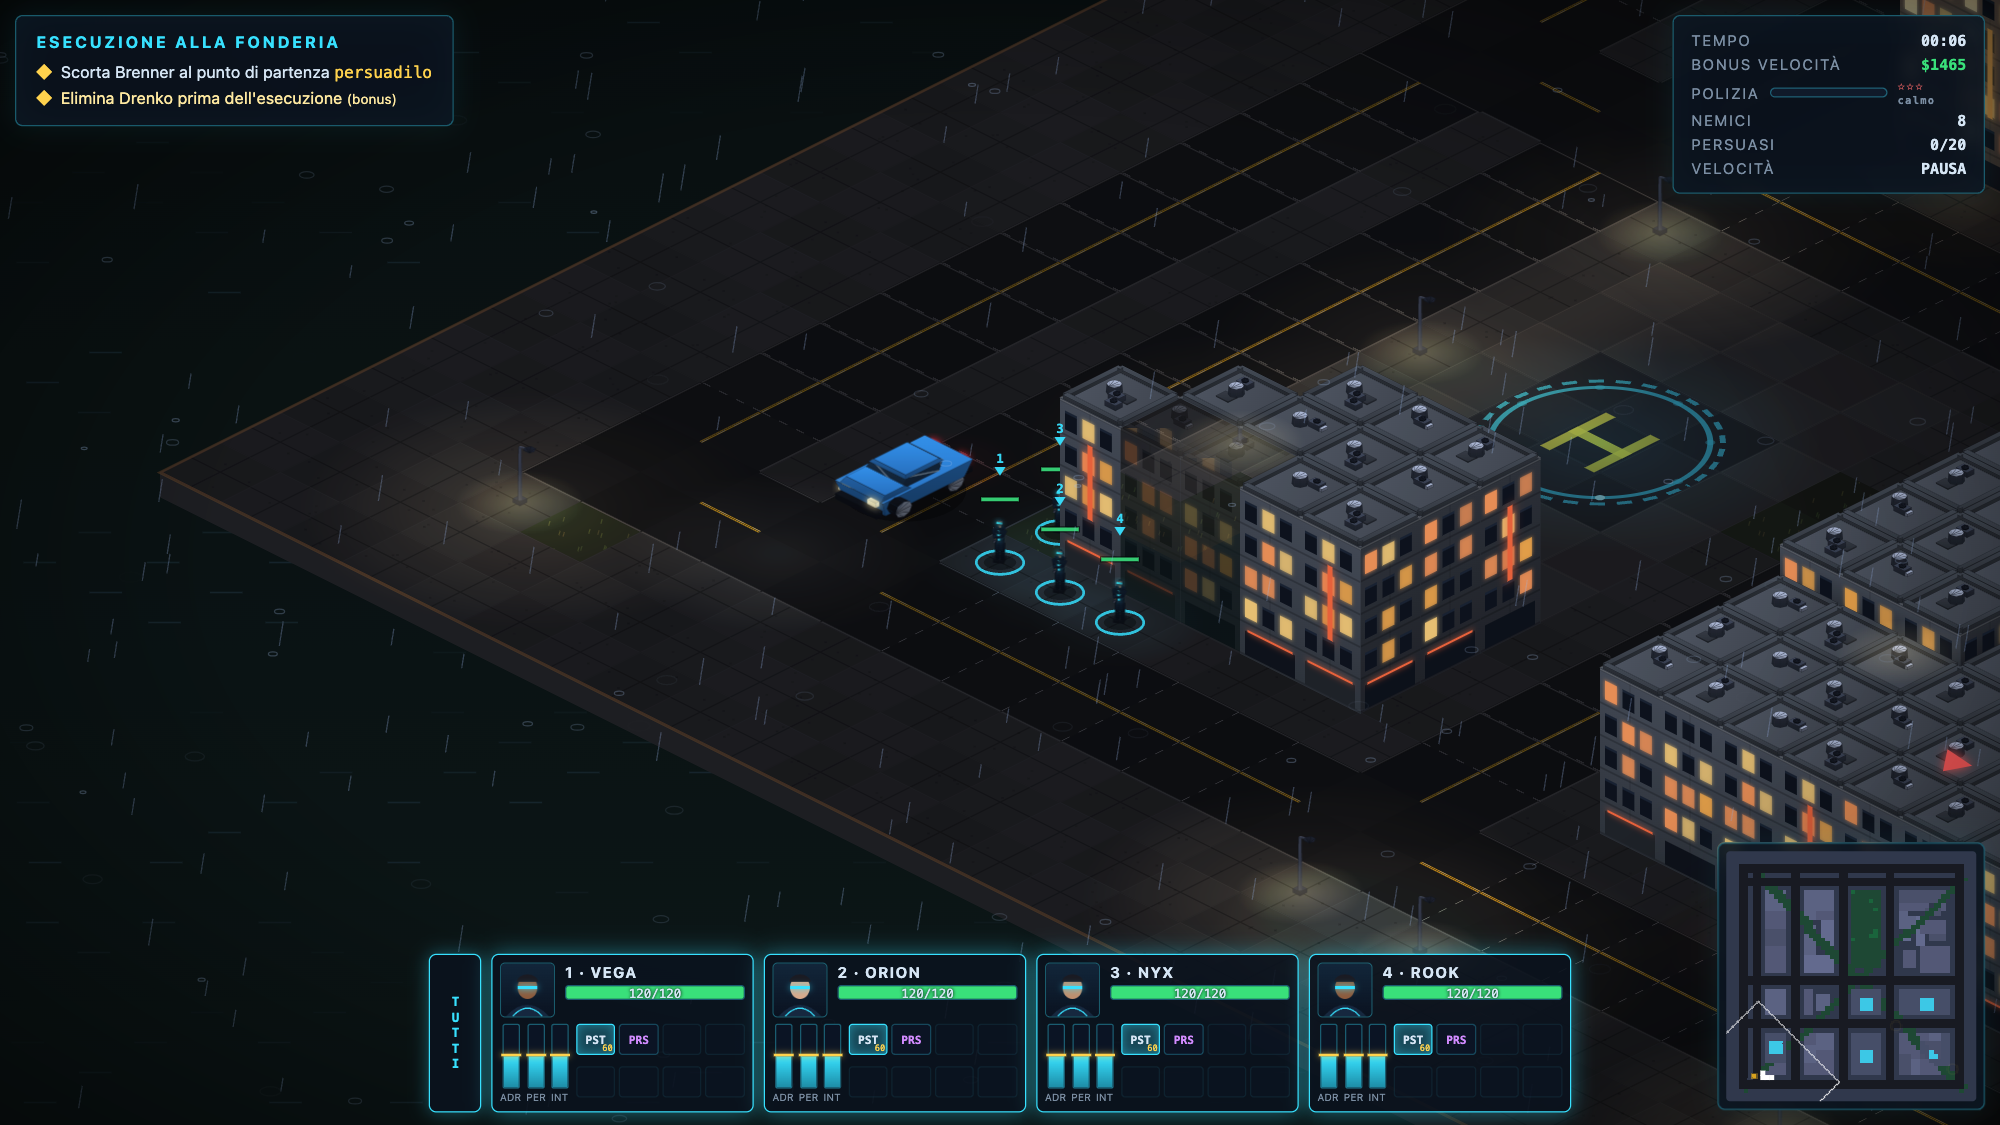
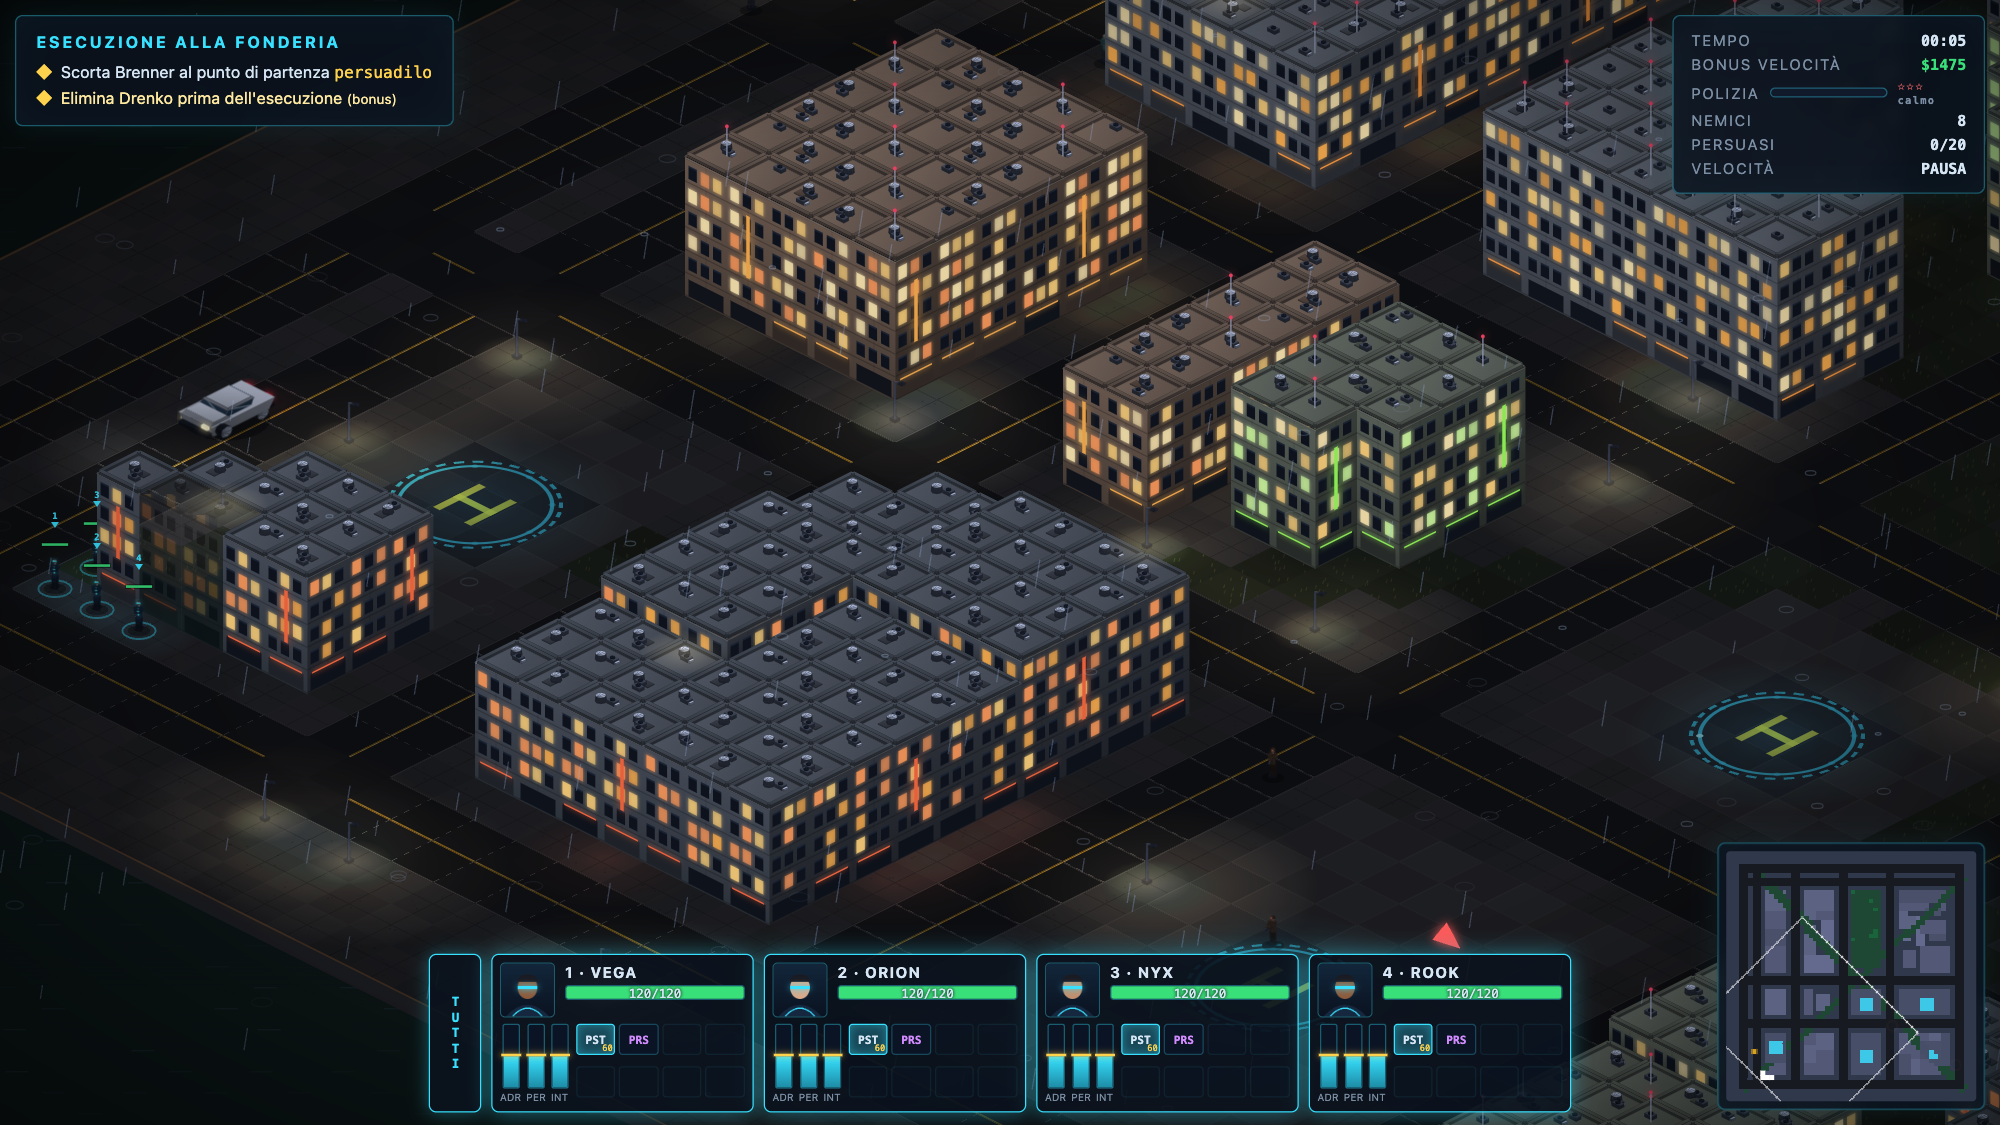
Screenshot: 4 zone con layout visivamente distinti
Ripresi con camera zoom-out sui pattern caratteristici (viali diagonali dei
distretti, isolati a T organici, asse radiale, mappa ASCII della torre),
dopo i tiri ravvicinati che facevano sembrare le mappe identiche.
README: tabella 2x2 con layout/tema/meteo per zona.

diff --git a/README.md b/README.md
@@ -4,9 +4,13 @@ Gioco tattico isometrico in sola tecnologia web, ispirato a *Syndicate* di Bullf
 Lavori automatici (agenzie AI): iniziare da `AGENTS.md`; creazione missioni: `docs/MISSIONI_AI.md`.
 
 ## Screenshot
-|Fonderie di Voltri (tema industriale, pioggia)|Porto Franco (tema tramonto)|
+Ogni zona ha una sua mappa: layout generati diversi (`grid`, `distretti`, `radiale`, `organico`, con fiumi/baie dove previsto) o ASCII disegnate a mano, più tema grafico e meteo propri.
+
+|Fonderie di Voltri — layout distretti (supra-blocchi, viali diagonali), tema industriale, pioggia|Porto Franco — layout organico con fiume, tema tramonto|
 |---|---|
 |![Fonderie di Voltri](screenshots/fonderie-voltri.png)|![Porto Franco](screenshots/porto-franco.png)|
+|Nuova Osaka — layout radiale, tema neon città, nebbia|Zurigo Alta (Torre Nera) — mappa ASCII disegnata a mano|
+|![Nuova Osaka](screenshots/nuova-osaka.png)|![Zurigo Alta](screenshots/zurigo-alta.png)|
 
 ## Avvio
 - Locale: `python3 serve.py` → http://localhost:8080
